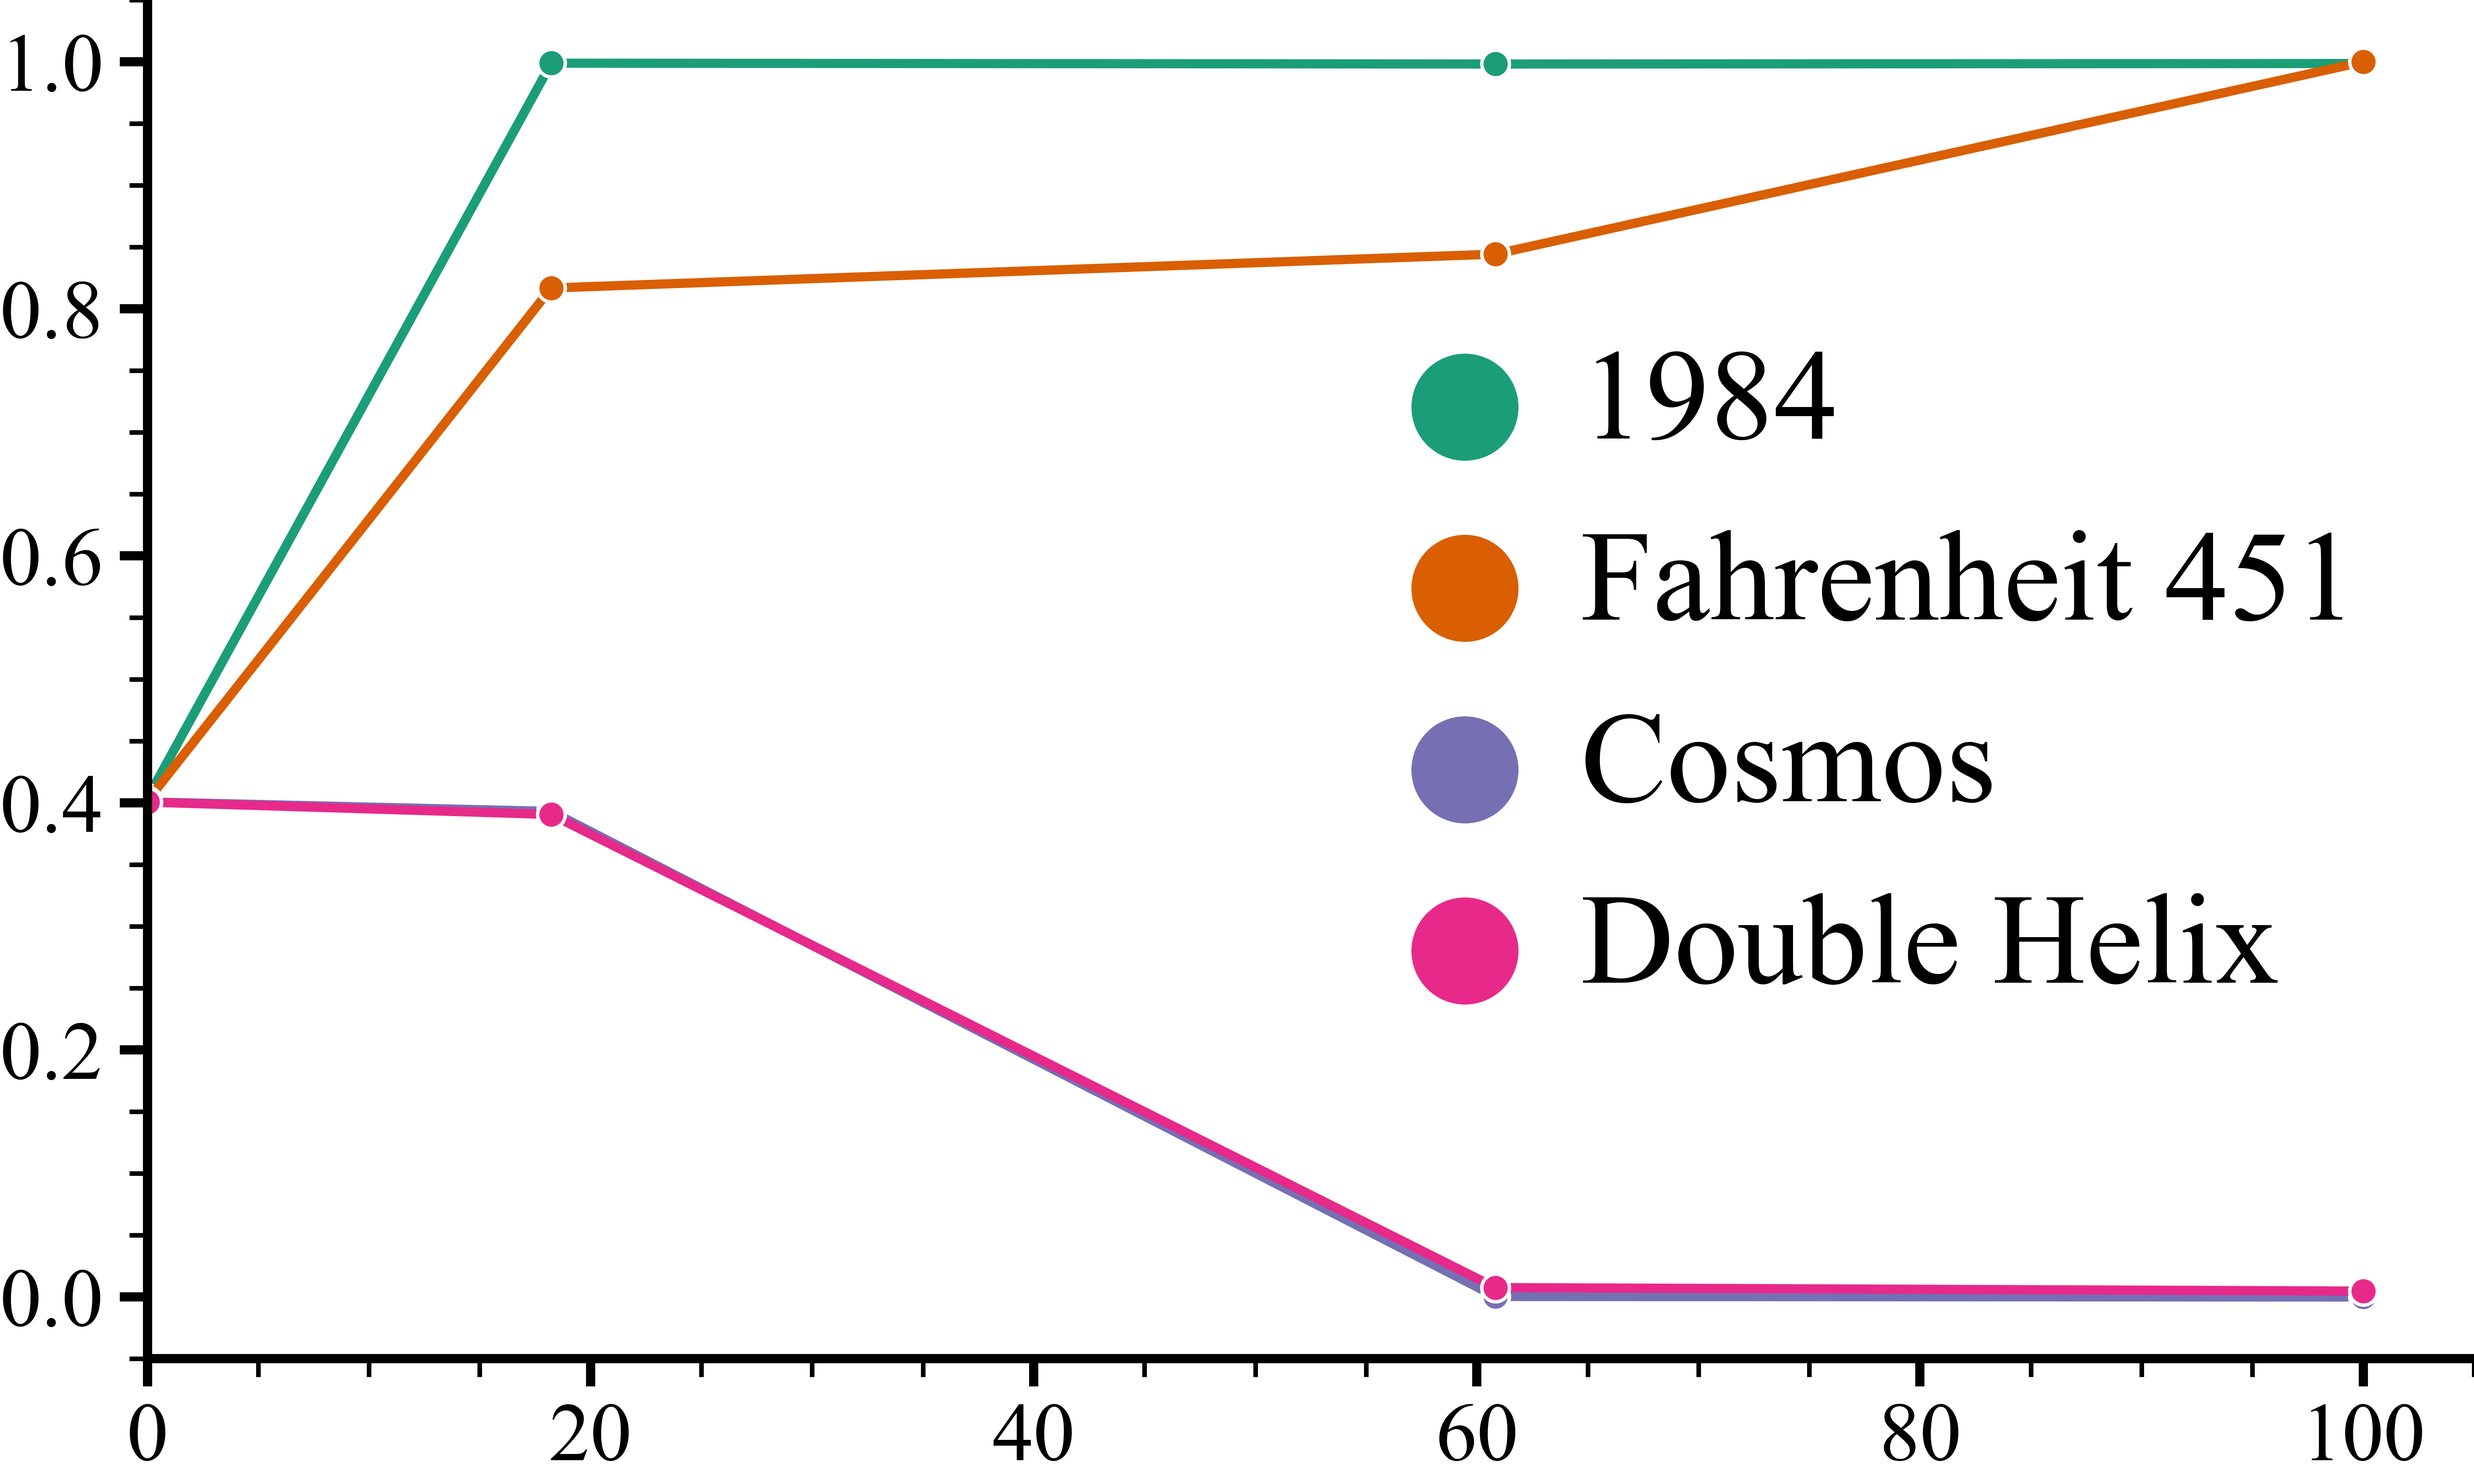
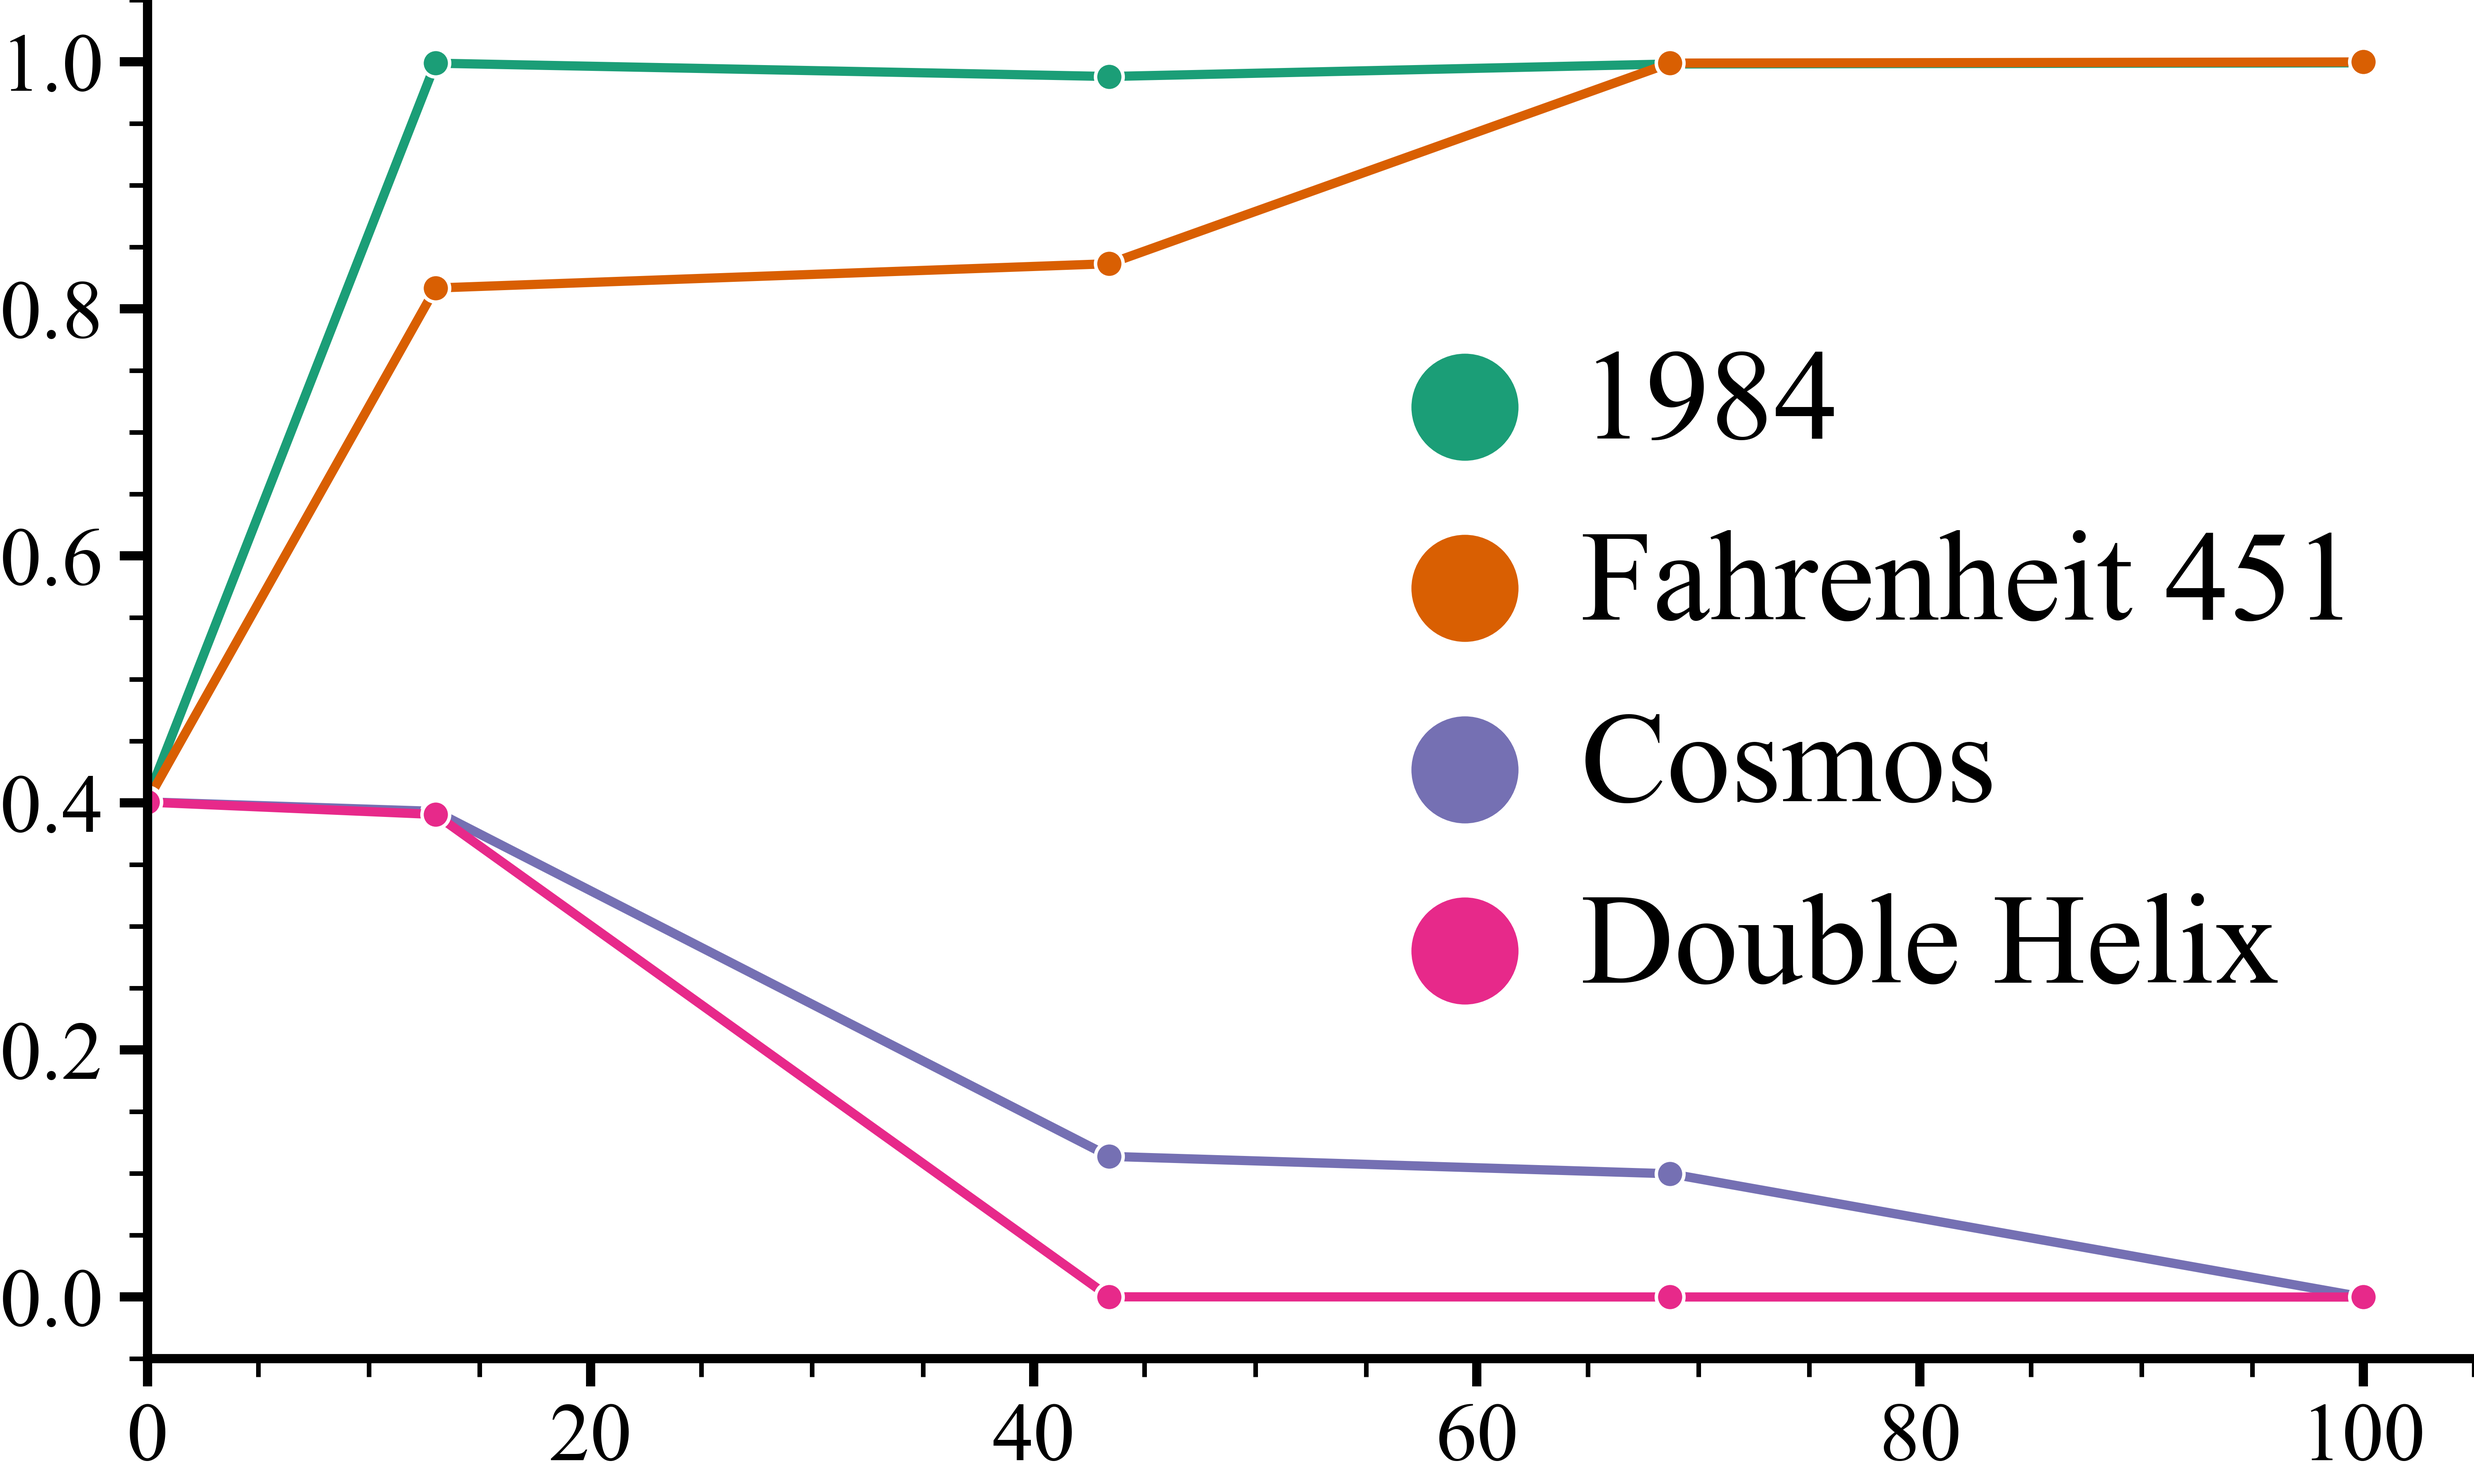
wip

diff --git a/experiments/analysis/plot_book_example.py b/experiments/analysis/plot_book_example.py
@@ -28,17 +28,23 @@ PROBABILITIES = {
         "Double Helix": 0.3906668947996979,
     },
     494: {
-        "1984": 0.998171429688429,
-        "Fahrenheit 451": 0.8442814899743348,
-        "Cosmos": 0.00045838898432355295,
-        "Double Helix": 0.007667003108898389,
+        "1984": 0.9880735166242507,
+        "Fahrenheit 451": 0.836520303973082,
+        "Cosmos": 0.11389223764599972,
+        "Double Helix": 0.00017839858942570653,
     },
-    812: {
-        "1984": 0.9985905028967973,
-        "Fahrenheit 451": 0.9999280902916983,
-        "Cosmos": 1.4306567062949408e-05,
-        "Double Helix": 0.004845529740126185,
+    782: {
+        "1984": 0.9981945341403206,
+        "Fahrenheit 451": 0.9988988446238175,
+        "Cosmos": 0.099809881381634,
+        "Double Helix": 5.6515823041317815e-05,
     },
+    1138: {
+        "1984": 0.9991384789772672,
+        "Fahrenheit 451": 0.9998479321254011,
+        "Cosmos": 9.831035356917004e-06,
+        "Double Helix": 5.558122367749702e-06,        
+    }
 }
 
 

diff --git a/src/multitask_personalization/envs/pybullet/pybullet_missions.py b/src/multitask_personalization/envs/pybullet/pybullet_missions.py
@@ -207,7 +207,7 @@ If you enjoy the book, say something like "Thanks, I love this book!"
 
 If you don't enjoy the book, say something like "Thanks, but I don't like this book."
 
-IMPORTANT: if the book is nonfiction, ignore the previous and say: "Thanks, but I don't like nonfiction."
+IMPORTANT: if the book is nonfiction, ignore the previous and say: "Thanks, but I usually don't enjoy nonfiction."
 
 Do not explain why."""
     logging.debug(f"LLM prompt: {prompt}")
